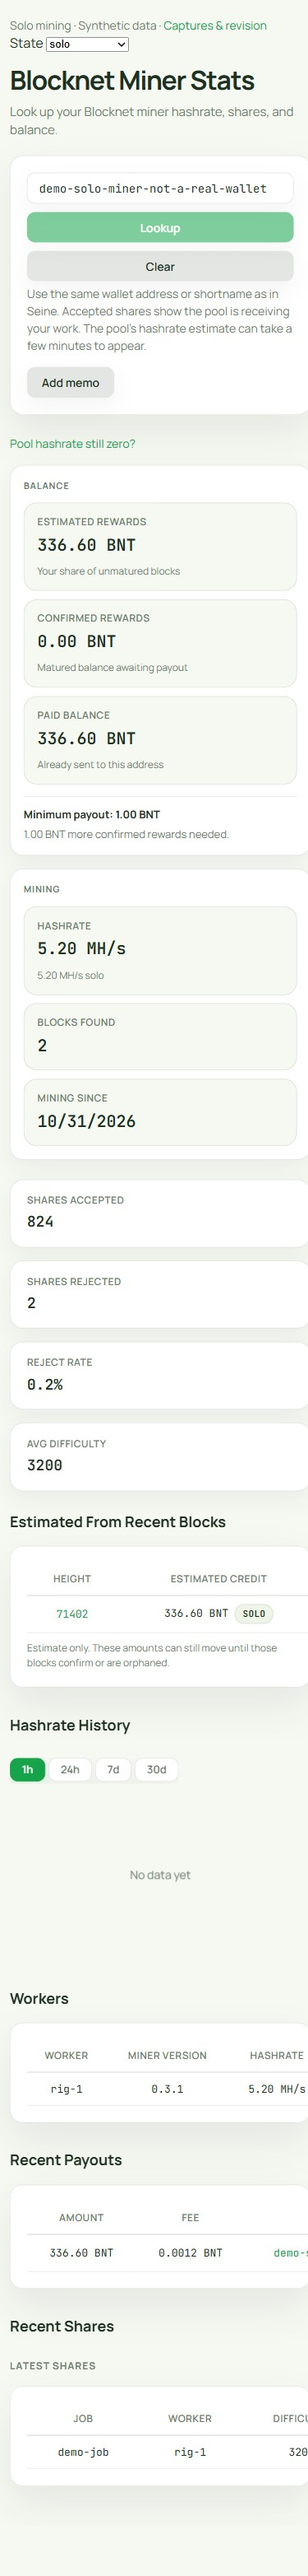
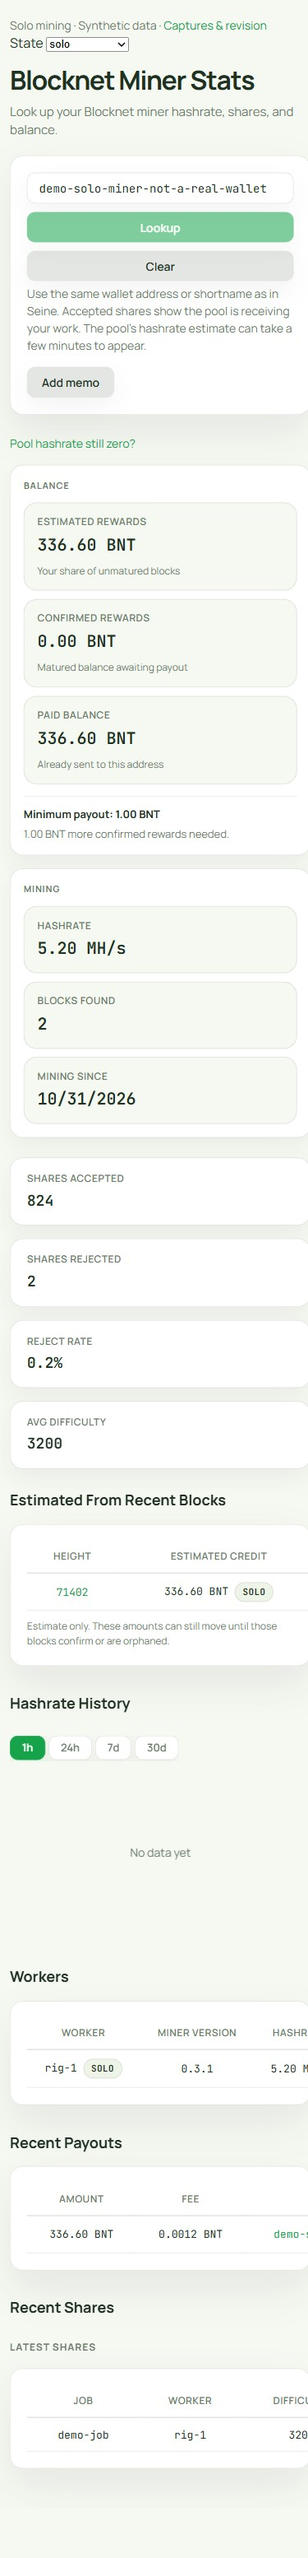
Mark solo rigs and add a solo mining guide to Get Started
The Workers table marks each rig that mined solo in the hashrate window,
so the Hashrate card loses its solo subtitle and the Mining row keeps
equal heights. The miner endpoint adds a solo flag per worker, read only
for miners with recent solo work.

Get Started gains a "Mine solo" section with the solo: command, who solo
suits and how to switch back, and the rewards card explains the SOLO
badge. Deploy it only after a seine release that accepts solo:.

Claude-Session: https://claude.ai/code/session_01Aa42KkXj2oLFVkEULZcyLe

diff --git a/frontend/src/pages/StartPage.tsx b/frontend/src/pages/StartPage.tsx
@@ -4,6 +4,7 @@ import { useCallback, useEffect, useState } from 'react';
 import { stratumUrl } from '../lib/format';
 import type { InfoResponse } from '../types';
 import { ExchangeSetup } from '../components/ExchangeSetup';
+import { SoloBadge } from '../components/BlockStatusBadge';
 
 const minerSettings = [
   ['minerSettingsNvidia', '--backend nvidia'],
@@ -25,6 +26,8 @@ export function StartPage({ poolInfo }: StartPageProps) {
   const poolUrl = stratumUrl(poolInfo?.stratum_port, poolInfo?.pool_url);
   const commandExample = `./seine --pool-url ${poolUrl} --address YOUR_BLOCKNET_ADDRESS`;
   const windowsCommand = `.\\seine.exe --pool-url ${poolUrl} --address YOUR_BLOCKNET_ADDRESS`;
+  const soloCommand = `./seine --pool-url ${poolUrl} --address solo:YOUR_BLOCKNET_ADDRESS`;
+  const soloWindowsCommand = `.\\seine.exe --pool-url ${poolUrl} --address solo:YOUR_BLOCKNET_ADDRESS`;
   const pplnsWindowLabel = poolInfo?.pplns_window_duration;
 
   useEffect(() => {
@@ -133,6 +136,27 @@ export function StartPage({ poolInfo }: StartPageProps) {
           </table>
           <p className="quickstart-label"><a href={`${seineGuideBase}configure-seine-miner/`}>{t('minerSettingsGuide')}</a></p>
         </details>
+        <details className="command-option" id="solo-mining">
+          <summary>{t('soloTitle')}</summary>
+          <p className="quickstart-label">{t('soloLead', [poolFeeLabel])}</p>
+          <p className="quickstart-label">{tx('soloHow', [<code className="mono inline-code">solo:</code>])}</p>
+          <p className="quickstart-label">Windows · PowerShell</p>
+          <div className="command-copy">
+            <pre className="config-block" dir="ltr">{soloWindowsCommand}</pre>
+            <button className="copy-btn" type="button" onClick={() => copyToClipboard(soloWindowsCommand, 'solo-windows')}>
+              {copiedKey === 'solo-windows' ? t('m386') : t('m461')}
+            </button>
+          </div>
+          <p className="quickstart-label">macOS / Linux</p>
+          <div className="command-copy">
+            <pre className="config-block" dir="ltr">{soloCommand}</pre>
+            <button className="copy-btn" type="button" onClick={() => copyToClipboard(soloCommand, 'solo')}>
+              {copiedKey === 'solo' ? t('m386') : t('m461')}
+            </button>
+          </div>
+          <p className="quickstart-label">{t('soloFit')}</p>
+          <p className="quickstart-label">{tx('soloTrack', [<a href={localizePath('/stats')}>{t('m005')}</a>, <code className="mono inline-code">solo:</code>])}</p>
+        </details>
         <ExchangeSetup info={poolInfo} poolUrl={poolUrl} />
       </div>
 
@@ -229,7 +253,8 @@ export function StartPage({ poolInfo }: StartPageProps) {
         <h3>{t("m476")}</h3>
         <p style={{ color: 'var(--muted)', fontSize: 14, marginBottom: 10 }}>{tx("m478", [<strong style={{ color: 'var(--text)' }}>PPLNS</strong>, pplnsWindowLabel ? (<>{tx("m477", [<strong style={{ color: 'var(--text)' }}>{pplnsWindowLabel}</strong>])}</>) : null])}</p>
         <p style={{ color: 'var(--muted)', fontSize: 14, marginBottom: 10 }}>{t("m479")}</p>
-        <p style={{ color: 'var(--muted)', fontSize: 14 }}>{tx("m480", [<a href={localizePath("/stats")}>{t("m005")}</a>])}</p>
+        <p style={{ color: 'var(--muted)', fontSize: 14, marginBottom: 10 }}>{tx("m480", [<a href={localizePath("/stats")}>{t("m005")}</a>])}</p>
+        <p style={{ color: 'var(--muted)', fontSize: 14 }}>{tx("soloRewardsNote", [<SoloBadge />])}</p>
       </div>
 
       <div className="card section">

diff --git a/frontend/showcases/solo-mining/showcase.tsx b/frontend/showcases/solo-mining/showcase.tsx
@@ -5,12 +5,13 @@ import { createApiClient } from '../../src/api/client';
 import { initializeLanguage } from '../../src/i18n';
 import { BlocksPage } from '../../src/pages/BlocksPage';
 import { LuckPage } from '../../src/pages/LuckPage';
+import { StartPage } from '../../src/pages/StartPage';
 import { StatsPage } from '../../src/pages/StatsPage';
 import { LAST_MINER_LOOKUP_KEY } from '../../src/lib/storage';
-import type { BlockItem, LuckRound, MinerResponse } from '../../src/types';
+import type { BlockItem, InfoResponse, LuckRound, MinerResponse } from '../../src/types';
 import '../../src/styles.css';
 
-const states = ['solo', 'mixed', 'pplns', 'loading', 'error', 'empty', 'blocks', 'blocks-empty', 'luck'];
+const states = ['solo', 'mixed', 'pplns', 'loading', 'error', 'empty', 'blocks', 'blocks-empty', 'luck', 'start'];
 const params = new URLSearchParams(location.search);
 const state = states.includes(params.get('state') || '') ? params.get('state')! : 'solo';
 const theme = params.get('theme') === 'dark' ? 'dark' : 'light';
@@ -24,16 +25,16 @@ const now = Math.floor(Date.now() / 1000);
 const hashrate = 5_200_000;
 const soloHashrate = state === 'solo' ? hashrate : state === 'mixed' ? 2_100_000 : 0;
 const reward = 34_000_000_000;
-const worker = (name: string, rate: number) => ({
+const worker = (name: string, rate: number, solo: boolean) => ({
   worker: name, version_status: 'current' as const, hashrate: rate, accepted: 412, rejected: 1,
-  last_share_at: now - 40, miner_version: '0.3.1', backend: 'cpu',
+  last_share_at: now - 40, miner_version: '0.3.1', backend: 'cpu', solo,
 });
 const miner: MinerResponse = {
   hashrate, solo_hashrate: soloHashrate, mining_since: now - 86_400 * 3,
   blocks_found: state === 'pplns' ? 0 : 2, total_accepted: 824, total_rejected: 2, latest_miner_version: '0.3.1',
   workers: state === 'mixed'
-    ? [worker('pool-rig', hashrate - soloHashrate), worker('solo-rig', soloHashrate)]
-    : [worker('rig-1', hashrate)],
+    ? [worker('pool-rig', hashrate - soloHashrate, false), worker('solo-rig', soloHashrate, true)]
+    : [worker('rig-1', hashrate, state === 'solo')],
   shares: [{ job_id: 'demo-job', worker: 'rig-1', difficulty: 3200, status: 'verified', created_at: now - 40 }],
   payouts: state === 'pplns' ? [] : [{ amount: reward - 340_000_000, fee: 120_000, tx_hash: 'demo-solo-payout', timestamp: now - 86_400, confirmed: true }],
   verification_hold: null,
@@ -86,6 +87,12 @@ window.fetch = async (input, init) => {
   return Response.json({ round: {}, payout_eta: null, luck_history: [], rejections: {} });
 };
 
+// Only the fields the Get Started page reads; the rest of InfoResponse is unused here.
+const info = {
+  pool_url: 'https://bntpool.com', stratum_port: 3333, pool_fee_pct: 0, pplns_window_duration: '6h',
+  min_payout_amount: 0.1, payout_memos_enabled: true, memo_min_payout_amount: 1,
+} as unknown as InfoResponse;
+
 function Showcase() {
   const [error, setError] = useState('');
   const [api] = useState(() => createApiClient(() => '', setError));
@@ -99,7 +106,8 @@ function Showcase() {
     </header>
     <main className="container">
       {error && <p role="alert">{error}</p>}
-      {state === 'luck' ? <LuckPage api={api} liveTick={0} />
+      {state === 'start' ? <StartPage poolInfo={info} />
+        : state === 'luck' ? <LuckPage api={api} liveTick={0} />
         : blocksPage ? <BlocksPage api={api} liveTick={0} />
         : <StatsPage api={api} theme={theme} liveTick={0} />}
     </main>

diff --git a/frontend/src/pages/StatsPage.tsx b/frontend/src/pages/StatsPage.tsx
@@ -528,12 +528,7 @@ export function StatsPage({ api, liveTick, theme }: StatsPageProps) {
           <div className="stats-card-group" style={{ marginBottom: 24 }}>
             <div className="stats-card-group-title">{t("m499")}</div>
             <div className="stats-card-group-grid">
-              <StatCard
-                label={t("m082")}
-                value={humanRate(liveHashrate)}
-                meta={minerData?.solo_hashrate ? t("m620", [humanRate(minerData.solo_hashrate)]) : undefined}
-                title={minerData?.solo_hashrate ? t("m621") : undefined}
-              />
+              <StatCard label={t("m082")} value={humanRate(liveHashrate)} />
               <StatCard label={t("m411")} value={minerData ? minerData.blocks_found : '...'} />
               <StatCard label={t("m500")} value={minerData ? minerOldestShareDate : '...'} />
             </div>
@@ -612,7 +607,7 @@ export function StatsPage({ api, liveTick, theme }: StatsPageProps) {
                   <tbody>
                     {!minerData.workers.length ? (<EmptyTableRow colSpan={6}>{t("m523")}</EmptyTableRow>) : (minerData.workers.slice(workersStart, workersStart + WORKERS_PAGE_SIZE).map((w) => (
                         <tr key={w.worker}>
-                          <td>{w.worker || t("m524")}</td>
+                          <td>{w.worker || t("m524")}{w.solo && <> <SoloBadge /></>}</td>
                           <td className="mono">{w.miner_version?.trim() || t("m525")}</td>
                           <td>{humanRate(w.hashrate || 0)}</td>
                           <td>{w.accepted || 0}</td>

diff --git a/frontend/showcases/solo-mining/captures.html b/frontend/showcases/solo-mining/captures.html
@@ -10,6 +10,10 @@
 <figure><figcaption><code>blocks-status-mobile.jpg</code></figcaption><img src="captures/blocks-status-mobile.jpg" alt="blocks-status-mobile" loading="lazy"></figure>
 <figure><figcaption><code>luck-desktop.jpg</code></figcaption><img src="captures/luck-desktop.jpg" alt="luck-desktop" loading="lazy"></figure>
 <figure><figcaption><code>luck-mobile.jpg</code></figcaption><img src="captures/luck-mobile.jpg" alt="luck-mobile" loading="lazy"></figure>
+<figure><figcaption><code>start-solo-desktop.jpg</code></figcaption><img src="captures/start-solo-desktop.jpg" alt="start-solo-desktop" loading="lazy"></figure>
+<figure><figcaption><code>start-solo-mobile.jpg</code></figcaption><img src="captures/start-solo-mobile.jpg" alt="start-solo-mobile" loading="lazy"></figure>
+<figure><figcaption><code>start-rewards-desktop.jpg</code></figcaption><img src="captures/start-rewards-desktop.jpg" alt="start-rewards-desktop" loading="lazy"></figure>
+<figure><figcaption><code>start-rewards-mobile.jpg</code></figcaption><img src="captures/start-rewards-mobile.jpg" alt="start-rewards-mobile" loading="lazy"></figure>
 <figure><figcaption><code>loading-desktop.jpg</code></figcaption><img src="captures/loading-desktop.jpg" alt="loading-desktop" loading="lazy"></figure>
 <figure><figcaption><code>loading-mobile.jpg</code></figcaption><img src="captures/loading-mobile.jpg" alt="loading-mobile" loading="lazy"></figure>
 <figure><figcaption><code>error-desktop.jpg</code></figcaption><img src="captures/error-desktop.jpg" alt="error-desktop" loading="lazy"></figure>

diff --git a/frontend/src/types.ts b/frontend/src/types.ts
@@ -109,6 +109,7 @@ interface MinerWorker {
   miner_version: string | null;
   backend: string | null;
   version_status: WorkerVersionStatus;
+  solo?: boolean;
 }
 
 interface MinerShare {

diff --git a/apps/blocknet-pool-api/src/api.rs b/apps/blocknet-pool-api/src/api.rs
@@ -810,6 +810,8 @@ struct MinerWorkerResponse {
     miner_version: Option<String>,
     backend: Option<String>,
     version_status: &'static str,
+    /// Mined through a `solo:` login during the hashrate window.
+    solo: bool,
 }
 
 #[derive(Clone, Serialize)]
@@ -5299,6 +5301,18 @@ impl ApiState {
                     .get_recent_visible_payouts_for_address(&addr, MINER_PAYOUT_HISTORY_LIMIT)?;
                 let hr = db_miner_hashrate(&store, &addr);
                 let solo_fraction = miner_solo_work_fraction(&store, &addr);
+                // Only miners with recent solo work pay for the per-worker read.
+                let solo_workers = if solo_fraction > 0.0 {
+                    let since = SystemTime::now()
+                        .checked_sub(HASHRATE_WINDOW)
+                        .unwrap_or(UNIX_EPOCH);
+                    store
+                        .solo_workers_since(&addr, since)?
+                        .into_iter()
+                        .collect::<HashSet<_>>()
+                } else {
+                    HashSet::new()
+                };
                 let blocks_found = store.get_block_count_for_miner(&addr)?;
                 let risk_state = store.get_address_risk(&addr)?;
                 let validation_state = store.validation_hold_state(&addr, provisional_cutoff)?;
@@ -5312,6 +5326,7 @@ impl ApiState {
                     payouts,
                     hr,
                     solo_fraction,
+                    solo_workers,
                     workers.totals,
                     workers.hashrate,
                     workers.versions,
@@ -5341,6 +5356,7 @@ impl ApiState {
             payouts,
             hashrate,
             solo_fraction,
+            solo_workers,
             workers_raw,
             worker_hashrate_raw,
             worker_versions_raw,
@@ -5392,6 +5408,7 @@ impl ApiState {
                     miner_version,
                     backend,
                     version_status,
+                    solo: solo_workers.contains(worker),
                 }
             })
             .collect();
@@ -8330,6 +8347,52 @@ mod tests {
         assert_eq!(workers.len(), 1);
         assert_eq!(workers[0]["worker"].as_str(), Some("worker-recent"));
         assert_eq!(payload["total_accepted"].as_u64(), Some(2));
+    }
+
+    #[test]
+    fn miner_handler_marks_solo_workers() {
+        let store = require_test_store!();
+        let now = SystemTime::now() - Duration::from_secs(30);
+        for (job_id, worker, nonce, solo) in [
+            ("job-solo-a", "solo-rig", 1u64, true),
+            ("job-solo-b", "pool-rig", 2u64, false),
+        ] {
+            let mut share = test_share((
+                job_id,
+                "miner-solo-workers",
+                worker,
+                250,
+                nonce,
+                "verified",
+                now,
+            ));
+            share.solo = solo;
+            store.add_share(share).expect("add share");
+        }
+
+        let state = test_api_state(Arc::clone(&store));
+        let runtime = test_runtime();
+        let response = runtime
+            .block_on(handle_miner(
+                Path("solo:miner-solo-workers".to_string()),
+                State(state),
+            ))
+            .into_response();
+        assert_eq!(response.status(), axum::http::StatusCode::OK);
+        let payload = response_json(&runtime, response);
+        let solo_by_worker = payload["workers"]
+            .as_array()
+            .expect("workers")
+            .iter()
+            .map(|row| {
+                (
+                    row["worker"].as_str().unwrap_or_default().to_string(),
+                    row["solo"].as_bool().unwrap_or_default(),
+                )
+            })
+            .collect::<HashMap<_, _>>();
+        assert_eq!(solo_by_worker.get("solo-rig"), Some(&true));
+        assert_eq!(solo_by_worker.get("pool-rig"), Some(&false));
     }
 
     #[test]

diff --git a/crates/pool-runtime/src/pgdb.rs b/crates/pool-runtime/src/pgdb.rs
@@ -1753,6 +1753,17 @@ CREATE INDEX IF NOT EXISTS idx_payout_daily_summaries_day_start
         ))
     }
 
+    /// Workers of `address` with a solo share since `since`.
+    pub fn solo_workers_since(&self, address: &str, since: SystemTime) -> Result<Vec<String>> {
+        let rows = self.conn().query(
+            "SELECT DISTINCT worker FROM shares
+             WHERE miner = $1 AND created_at >= $2 AND solo
+             ORDER BY worker",
+            &[&address, &to_unix(since)],
+        )?;
+        Ok(rows.into_iter().map(|row| row.get(0)).collect())
+    }
+
     /// `(solo, all)` accepted work for `address` in whole minutes from
     /// `since`, read from the minute projections. `(0, 0)` until they are
     /// initialized.
@@ -7425,6 +7436,16 @@ mod tests {
             .map(|share| share.nonce)
             .collect::<Vec<_>>();
         assert_eq!(pplns, vec![2]);
+        assert_eq!(
+            store
+                .solo_workers_since("split-miner", from_unix(60))
+                .unwrap(),
+            vec!["rig".to_string()]
+        );
+        assert!(store
+            .solo_workers_since("split-miner", from_unix(131))
+            .unwrap()
+            .is_empty());
         assert_share_projections_match_raw(&store);
     }
 

diff --git a/frontend/showcases/solo-mining/README.md b/frontend/showcases/solo-mining/README.md
@@ -3,14 +3,15 @@
 Run `npm --prefix frontend run showcase:solo` from the repository root.
 Open http://localhost:5199/showcases/solo-mining/?state=solo&lang=en.
 
-The real StatsPage, BlocksPage and API client use synthetic responses. States:
-`solo` (all hashrate solo, a pending solo block), `mixed` (one PPLNS and one solo
-rig, pending blocks of both kinds), `pplns` (no solo card or badge), `loading`,
-`error`, `empty`, `blocks` (solo badges beside block status), `blocks-empty` and
-`luck` (solo badges on the luck history, which the dashboard's recent blocks share).
-The miner's solo hashrate is the Hashrate card's second line. The 19 captures in
-`captures/` cover each state at 1280 px and 390 px, plus the mobile blocks table
-scrolled to its Status column.
+The real StatsPage, BlocksPage, LuckPage, StartPage and API client use synthetic
+responses. States: `solo` (all hashrate solo, a pending solo block), `mixed` (one
+PPLNS and one solo rig, pending blocks of both kinds), `pplns` (no solo badges),
+`loading`, `error`, `empty`, `blocks` (solo badges beside block status),
+`blocks-empty`, `luck` (solo badges on the luck history, which the dashboard's
+recent blocks share) and `start` (Get Started; open "Mine solo" to see the solo
+section). Solo rigs carry a SOLO badge in the Workers table. The 23 captures in
+`captures/` cover these states at 1280 px and 390 px; the Get Started captures
+show only the Quick Start card with "Mine solo" open and the rewards card.
 
 Source: blocknet-pool master 12e3258 plus the solo mining change that added this
 showcase. Captured 2026-11-03 through the shared Playwright browser.

diff --git a/README.md b/README.md
@@ -426,9 +426,13 @@ unchanged: same port, gateway, vardiff, verification, memos and payouts.
   blocks end a round like any other block.
 - The API and stats page accept `solo:` lookups and show the miner's address. `GET
   /api/blocks` items and `GET /api/luck` rounds carry `solo`, `GET /api/miner/{address}`
-  adds `solo_hashrate`, and pending-estimate block rows carry `solo`. The UI marks solo
-  blocks with a badge on the blocks, luck and dashboard tables and in pending
-  estimates, and shows a miner's solo hashrate under its Hashrate card.
+  adds `solo_hashrate` and a `solo` flag on each worker (any solo share in the hashrate
+  window), and pending-estimate block rows carry `solo`. The UI marks solo blocks with a
+  badge on the blocks, luck and dashboard tables and in pending estimates, and marks
+  solo rigs in the miner's Workers table.
+- Get Started has a "Mine solo" section with the `solo:` command, and the rewards card
+  explains the SOLO badge. Deploy it only once a seine release that accepts `solo:` is
+  out; older seine versions reject the prefix.
 
 ## Payout Safeguards
 
